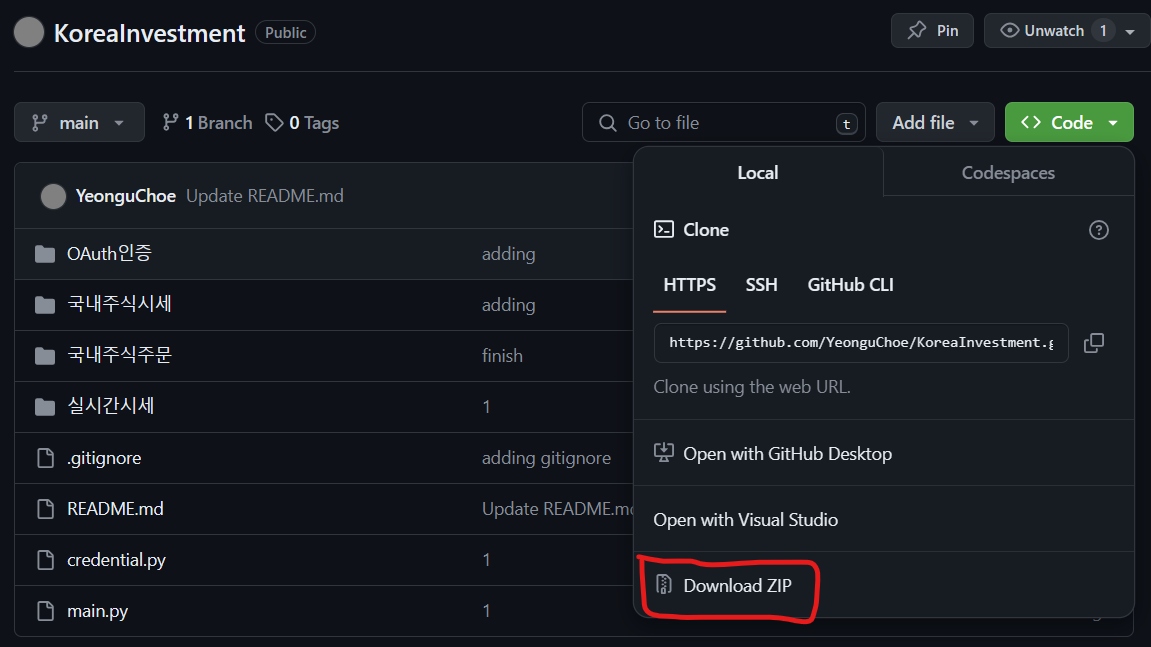
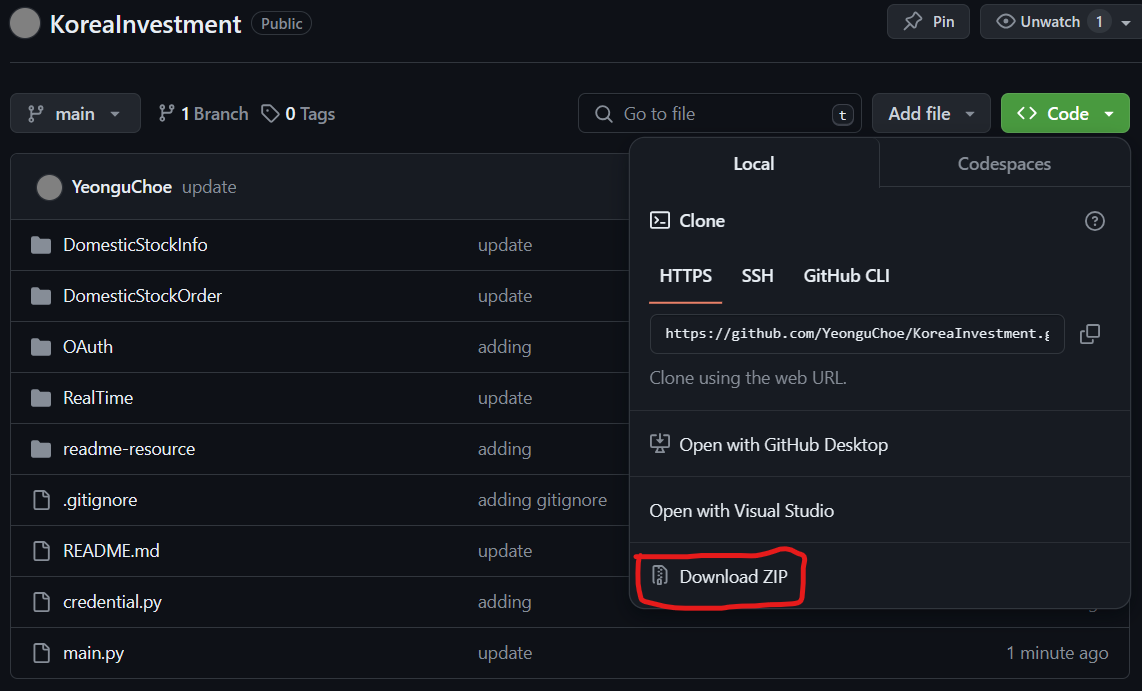
update

diff --git a/README.md b/README.md
@@ -3,7 +3,7 @@ In Korean stock market, every home trading software runs on only Windows.
 Some people have great trading knowledge but don't have coding experience.
 I made this python OOP script for the people who only have Mac or have great trading knowledge but little to no coding experience to be able to do system trading.
 
-[!WARNING]
+<h1 style="color:red">Warning</h1>
 
 
 ## Setting up
